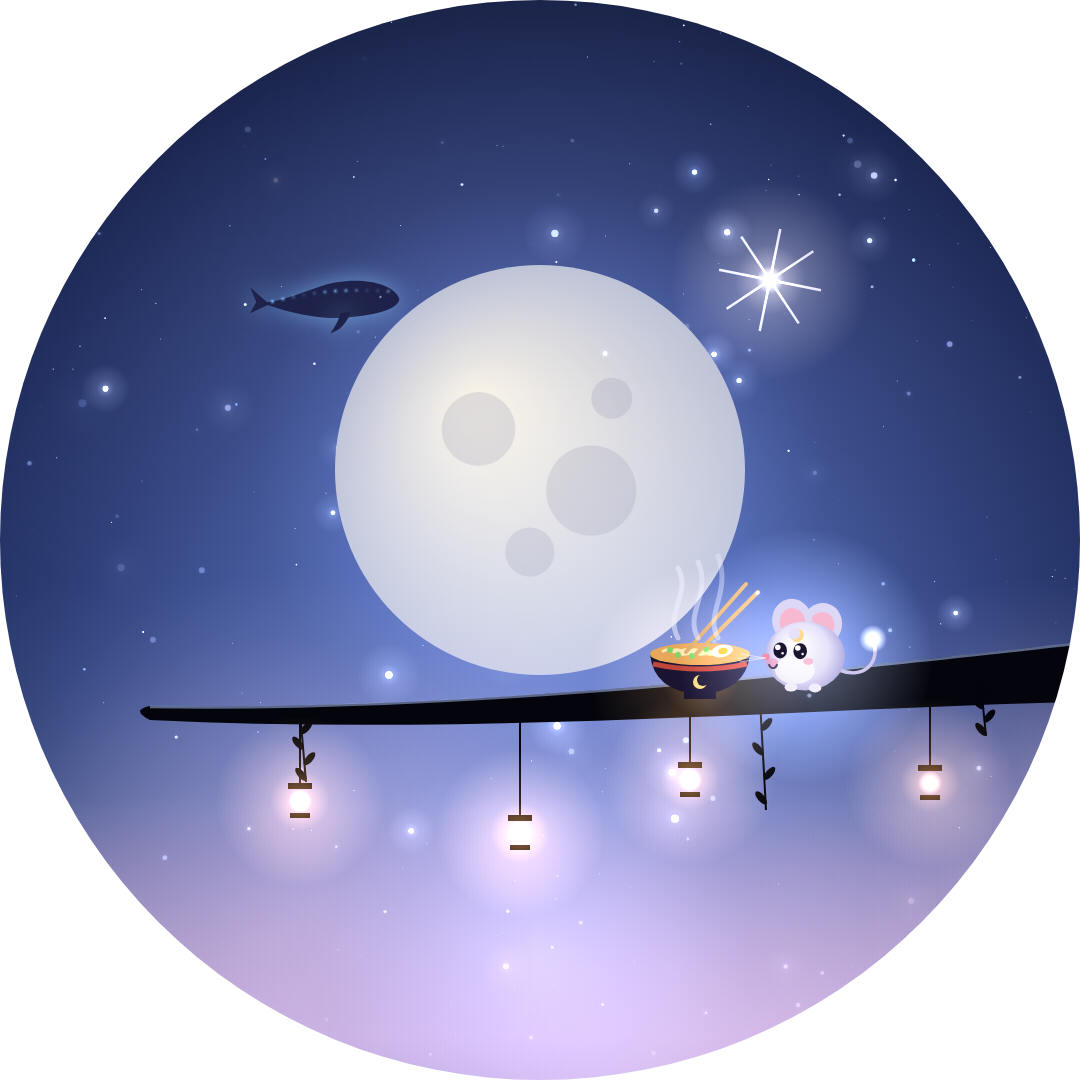
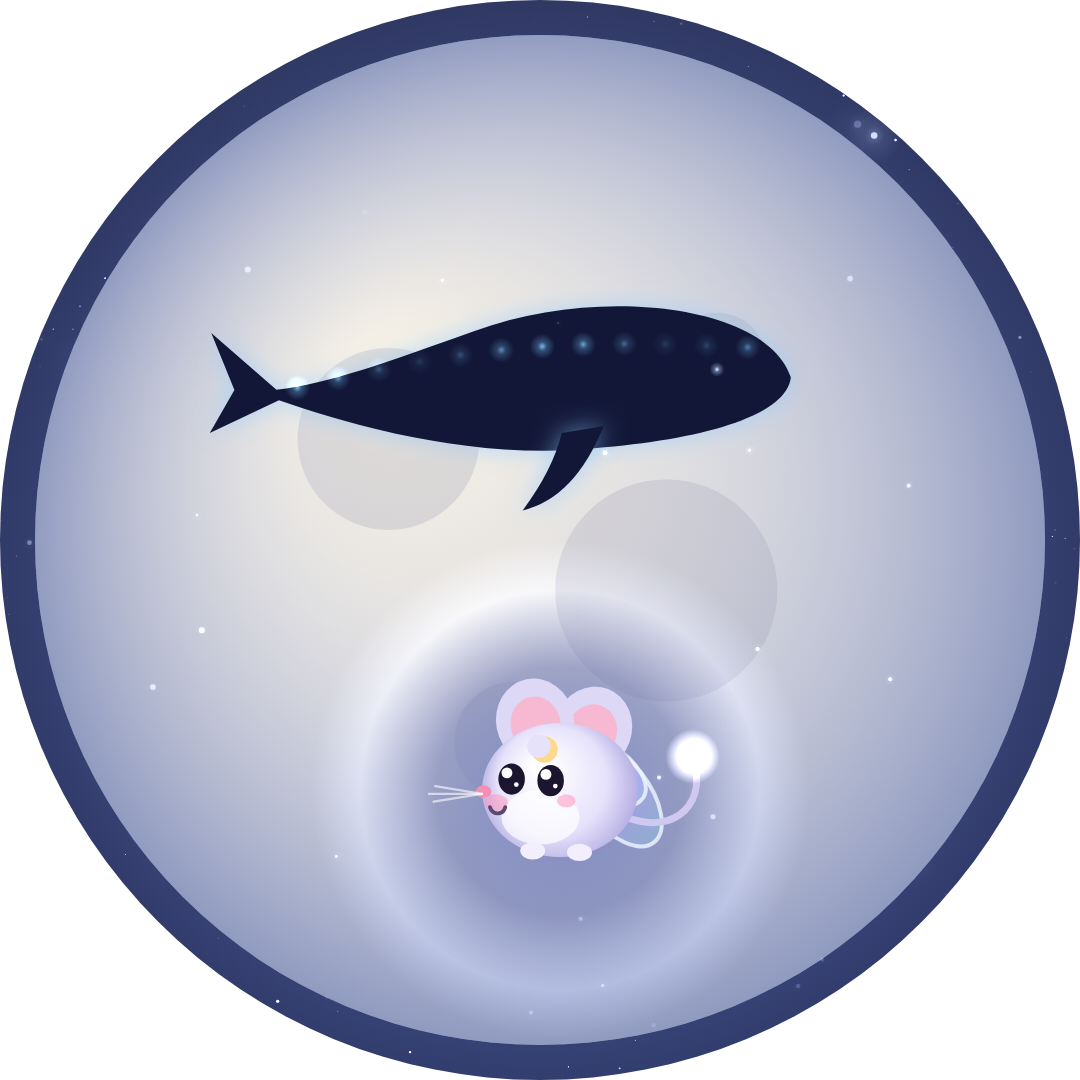
Leben in Valdoria: neues Profilbild – Vollmond mit Himmelswal und Lunara
Claude-Session: https://claude.ai/code/session_01McNdgartso3nbaZ6x41dY1

diff --git a/stories/branding/profilbild_mond.js b/stories/branding/profilbild_mond.js
@@ -1,0 +1,42 @@
+// Profilbild "Leben in Valdoria": nur der Vollmond als rundes Bild, davor ein Himmelswal und Lunara.
+// Usage: NODE_PATH=$(npm root -g) node branding/profilbild_mond.js -> branding/profilbild.png + profilbild_rund_vorschau.png
+const { chromium } = require('playwright');
+const path = require('path'), fs = require('fs');
+(async () => {
+  const browser = await chromium.launch();
+  const page = await browser.newPage({ viewport: { width: 1080, height: 1920 } });
+  await page.goto('file://' + path.resolve(__dirname, '../engine/render.html'));
+  await page.evaluate(() => document.fonts.ready);
+  const [sqUrl, rdUrl] = await page.evaluate(() => {
+    window.setup({ scenes: [{ id: 'x', start: 0, end: 99 }], lines: [], cues: {}, duration: 99 });
+    const t = 7.3, cv = document.getElementById('c'), c = cv.getContext('2d');
+    c.setTransform(1, 0, 0, 1, 0, 0);
+    // deep night around the moon (only visible as a thin rim in the circle)
+    vgrad([[0, '#05081c'], [1, '#0b1030']]);
+    stars(t, { alpha: 1 });
+    c.save(); c.globalCompositeOperation = 'lighter'; glow(540, 960, 760, 'rgba(170,195,255,A)', 0.55); c.restore();
+    // the full moon filling the frame
+    moon(540, 960, 505);
+    // gentle blue shading so the white mouse stands out
+    const sh = c.createRadialGradient(470, 860, 120, 540, 960, 520);
+    sh.addColorStop(0, 'rgba(255,255,255,0)'); sh.addColorStop(1, 'rgba(60,80,150,0.38)');
+    c.fillStyle = sh; c.beginPath(); c.arc(540, 960, 505, 0, 7); c.fill();
+    // sky whale gliding across the moon
+    whale(560, 820, 1.05, t, 0.85, 1);
+    // Lunara in front of the moon, with a soft dark halo for contrast
+    const g = c.createRadialGradient(560, 1210, 30, 560, 1210, 200);
+    g.addColorStop(0, 'rgba(20,24,64,0.85)'); g.addColorStop(0.55, 'rgba(20,24,64,0.55)'); g.addColorStop(1, 'rgba(20,24,64,0)');
+    c.fillStyle = g; c.beginPath(); c.arc(560, 1210, 200, 0, 7); c.fill();
+    moonMouse(560, 1210, 78, t, { dir: -1, mood: 'happy', fly: true, seed: 0.4 });
+    particles(t, 30, { y0: 1500, dy: -900, a: 0.5, color: 'rgba(220,230,255,A)', r: 2, life: 9, glowR: 6 });
+    const sq = document.createElement('canvas'); sq.width = 1080; sq.height = 1080;
+    sq.getContext('2d').drawImage(cv, 0, 420, 1080, 1080, 0, 0, 1080, 1080);
+    const rd = document.createElement('canvas'); rd.width = 1080; rd.height = 1080;
+    const r2 = rd.getContext('2d'); r2.beginPath(); r2.arc(540, 540, 540, 0, 7); r2.clip(); r2.drawImage(sq, 0, 0);
+    return [sq.toDataURL('image/png'), rd.toDataURL('image/png')];
+  });
+  fs.writeFileSync(path.join(__dirname, 'profilbild.png'), Buffer.from(sqUrl.split(',')[1], 'base64'));
+  fs.writeFileSync(path.join(__dirname, 'profilbild_rund_vorschau.png'), Buffer.from(rdUrl.split(',')[1], 'base64'));
+  await browser.close();
+  console.log('profilbild.png');
+})();
